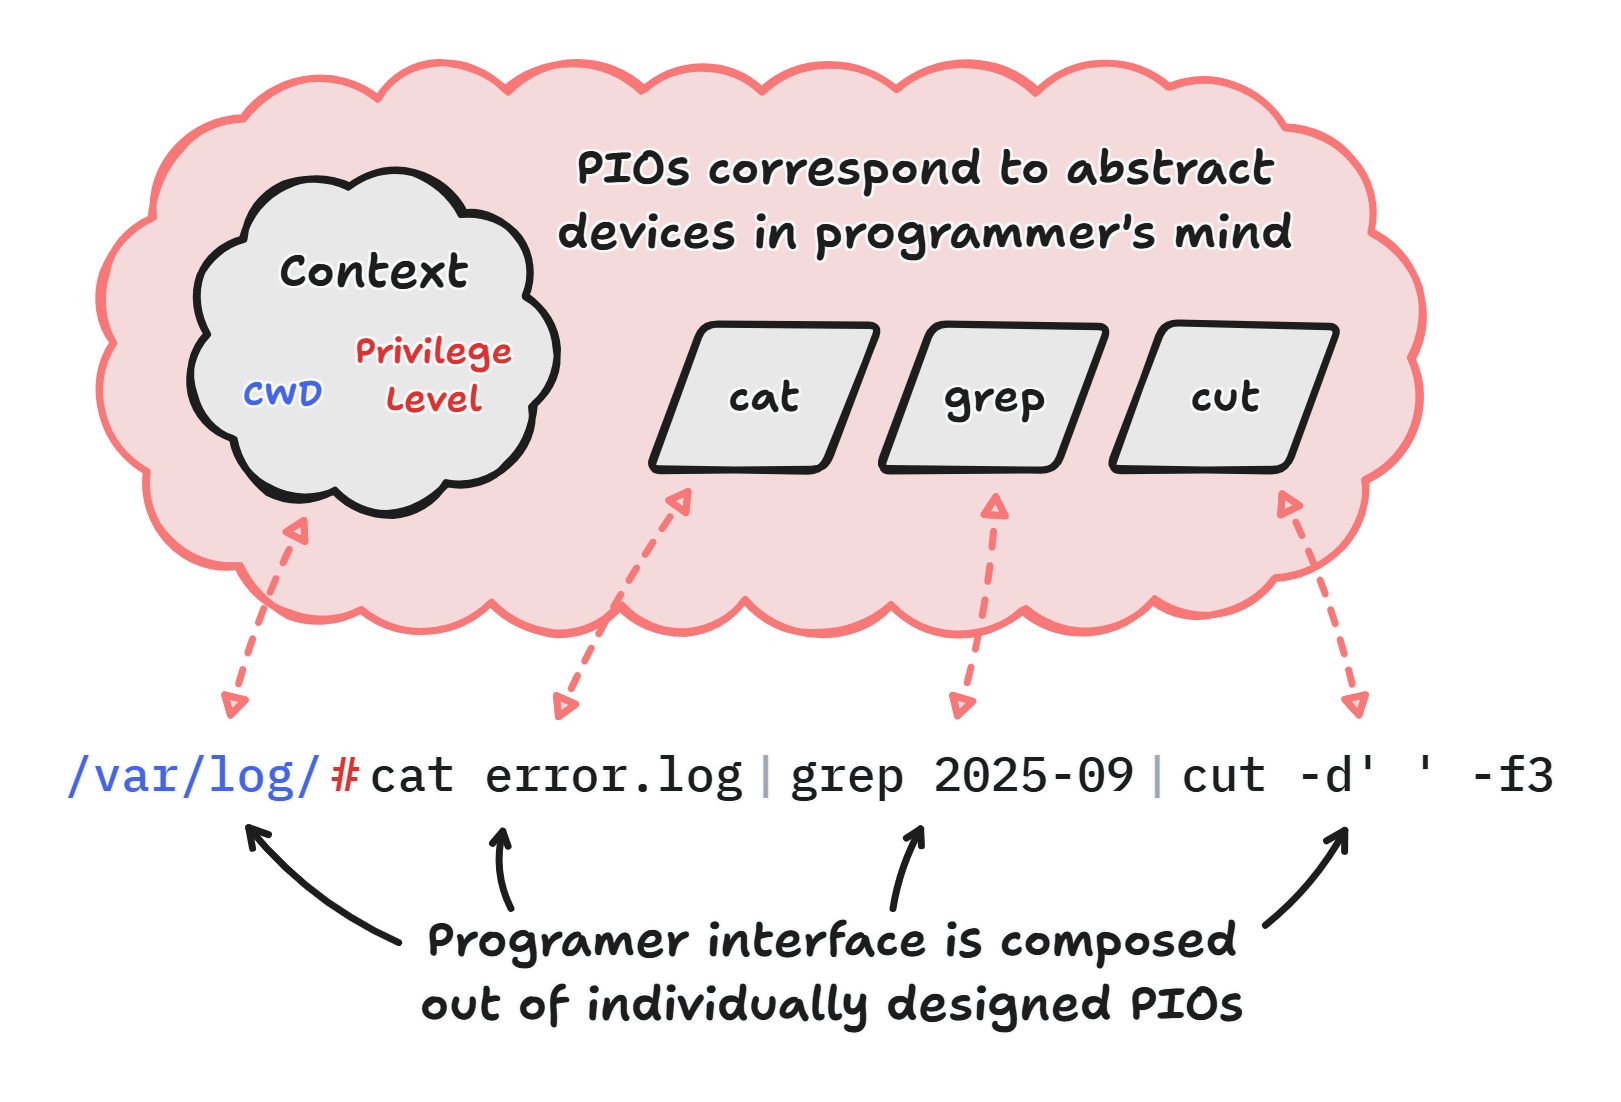
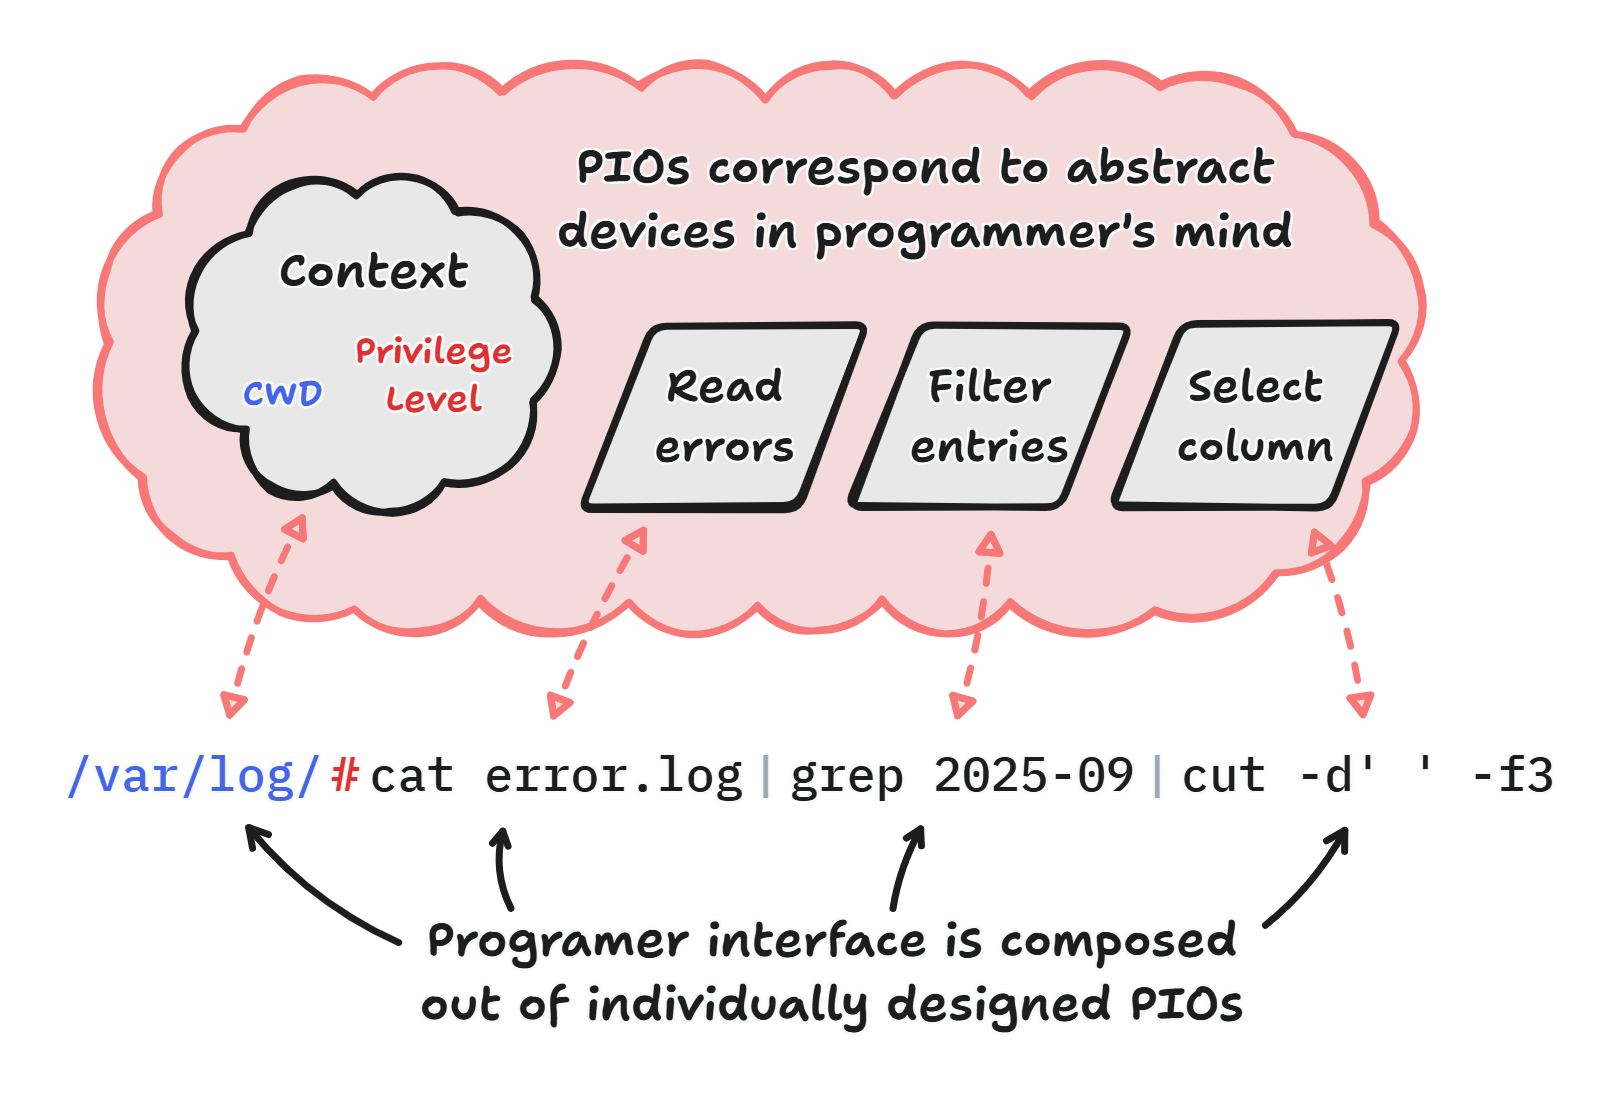
Add exercise

diff --git a/docs/live2025/index.html b/docs/live2025/index.html
@@ -319,7 +319,7 @@
             interface is often limited by textual representation, the objects are designed to be composed by a
             programmer and great attention is paid to their ease of use.</p>
 
-        <img class="figure" src="bash.png" style="max-width: 100%; box-shadow: none">
+        <img id="bash" class="figure" src="bash.png" style="max-width: 100%; box-shadow: none">
         <div class="caption">Programmer Interface Objects in Bash</div>
 
         <p>Therefore PIOs can be found in every high level programming system. Functions, class definitions, rules in
@@ -376,10 +376,31 @@
 
         <p><em>Fast to use</em>. Time needed to perform a task using a given PIO should be minimized.</p>
 
-        <p>Many other valuable design objectives could be listed here but only the ones related to the "programming
-            interface" aspect have been deemed relevant. Nota bene the difference in design criteria for PIOs &
+        <p>Many other design objectives could be listed here but only the ones
+            directly related to the
+            programmer have been deemed <span data-footnote="follow-up">relevant now</span>. Nota bene the difference in
+            design criteria for PIOs &
             traditional OO
             objects (for example SOLID princiles).</p>
+
+        <p id="follow-up" class="footnote">Follow-up articles will discuss the <em>interoperability</em> &
+            <em>efficiency</em> aspects.
+        </p>
+
+        <p><em>Exercise:</em> It's valuable to go back to the <a href="#bash">bash example</a> above. Please take a a
+            look at that
+            example now and try to answer the following questions:</p>
+        <ol>
+            <li>How would you rate the Bash programmer interface in each of the design criteria listed in this section?
+            </li>
+            <li>Try to imagine an alternative interface that would aim to maximize each out of those design criteria.
+                Focus on just one criterion at a time. How could this interface look like?</li>
+            <li>Try to describe the imagined interface to an AI image generator of your choice.</li>
+        </ol>
+
+        <p>Following the first two points should make it clear to the reader how PIOs differ from objects used at
+            program runtime and that they need to be designed with a different mindset. Automat's distinctive appearance
+            is a direct consequence of following a design process composed of all three of the points above.</p>
 
         <h2>Objects In Automat</h2>
         <p>Automat uses careful PIO design to enable its users to perform tasks typically reserved to professional

diff --git a/docs/live2025/style.css b/docs/live2025/style.css
@@ -5,6 +5,10 @@
     box-sizing: border-box;
 }
 
+html {
+    scroll-behavior: smooth;
+}
+
 body {
     font-family: 'Andika', sans-serif;
     line-height: 1.6;
@@ -64,7 +68,8 @@ h3+p {
 }
 
 /* Lists */
-ul {
+ul,
+ol {
     margin-bottom: 20px;
     padding-left: 40px;
 }
